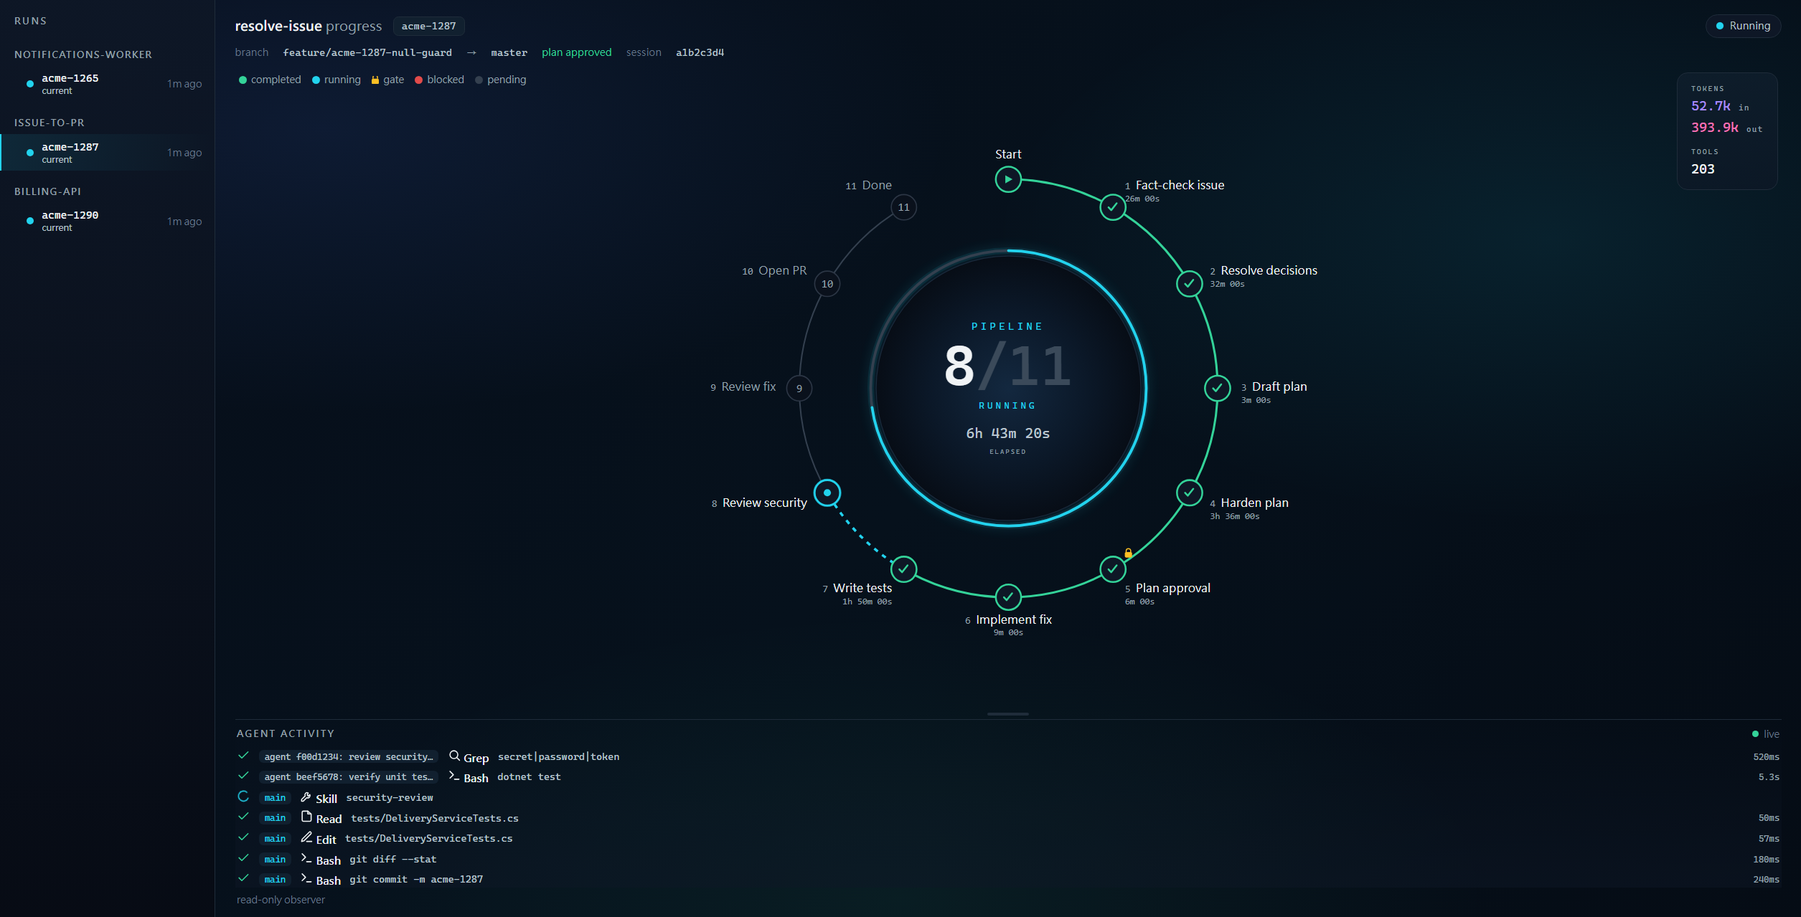
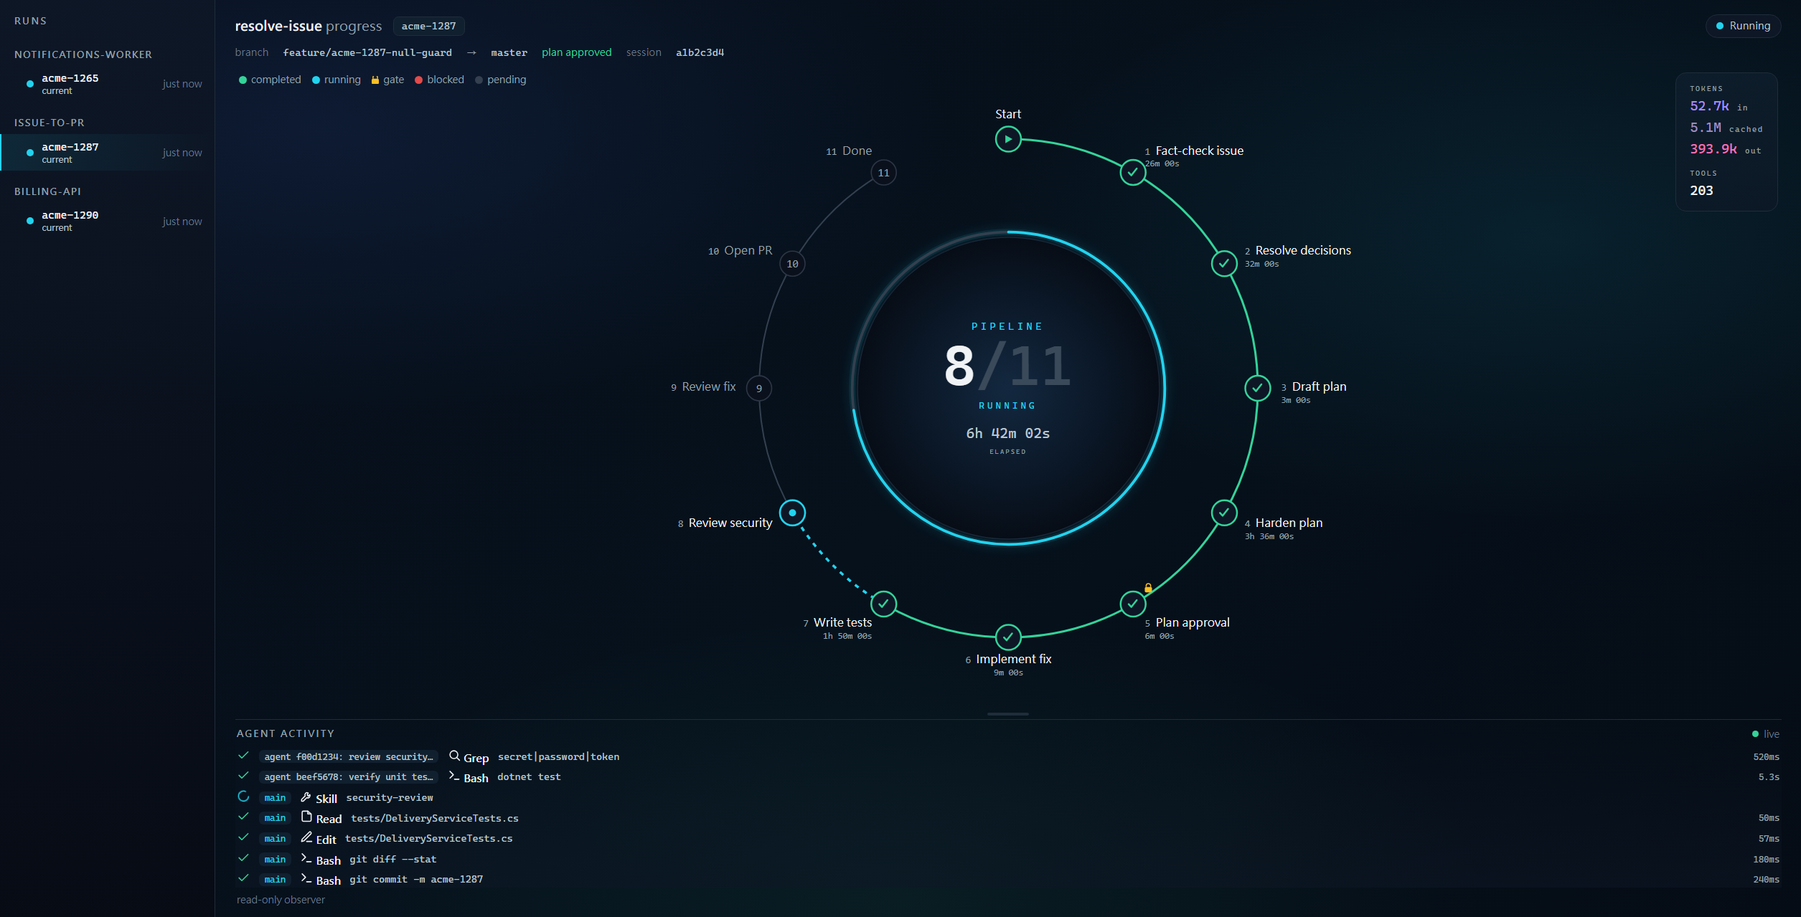
count each API response's tokens once

diff --git a/plugins/issue-to-pr-pipeline/skills/resolve-issue-dashboard/assets/index.html b/plugins/issue-to-pr-pipeline/skills/resolve-issue-dashboard/assets/index.html
@@ -21,6 +21,9 @@
     --blocked: #e24b4a;
     --amber: #fbbf24;
     --tok-in: #a78bfa;
+    /* cached sits on the input axis but weighs less, so it is a duller in-hue
+       rather than a colour of its own */
+    --tok-cached: #9d8fc4;
     --tok-out: #f472b6;
     --mono: ui-monospace, SFMono-Regular, "Cascadia Mono", Consolas, monospace;
     --sans: system-ui, -apple-system, "Segoe UI", Roboto, sans-serif;
@@ -167,6 +170,7 @@
   .statdock .sg .sk { font-size: 8px; letter-spacing: 0.2em; text-transform: uppercase; color: var(--text-tertiary); font-family: var(--mono); }
   .statdock .sg .sv { font-family: var(--mono); font-size: 15px; color: var(--text-primary); font-variant-numeric: tabular-nums; }
   .statdock .sg .sv .in { color: var(--tok-in); }
+  .statdock .sg .sv .cch { color: var(--tok-cached); }
   .statdock .sg .sv .out { color: var(--tok-out); }
   .statdock .sg .sv .tg { font-size: 9px; letter-spacing: 0.12em; color: var(--text-tertiary); }
 
@@ -573,9 +577,13 @@ function updateCore(m) {
   var dock = document.getElementById("statdock");
   if (dock) {
     var tin = (met.tokens && met.tokens.input) || 0, tout = (met.tokens && met.tokens.output) || 0;
+    // "in" is the cache-MISS delta the API reports, so cached is shown beside it
+    // rather than folded in - one blended input number would read as spend it isn't
+    var tcached = (met.tokens && met.tokens.cached) || 0;
     dock.innerHTML =
       "<div class='sg'><div class='sk'>Tokens</div>"
         + "<div class='sv'><span class='in'>" + fmtNum(tin) + "</span> <span class='tg'>in</span></div>"
+        + "<div class='sv'><span class='cch'>" + fmtNum(tcached) + "</span> <span class='tg'>cached</span></div>"
         + "<div class='sv'><span class='out'>" + fmtNum(tout) + "</span> <span class='tg'>out</span></div></div>"
       + "<div class='sg'><div class='sk'>Tools</div><div class='sv'>" + fmtNum(met.toolCalls) + "</div></div>";
   }
@@ -738,16 +746,18 @@ function selectRun(id) {
   fetch("/select?run=" + encodeURIComponent(id)).catch(function () {});
 }
 
-// global heads-up: 2+ runs parked on a test step share the host's Podman / SQL /
-// Azurite, so they can collide. Read-only - the dashboard only warns.
+// global heads-up: 2+ runs parked on a test step contend for whatever shared
+// infrastructure the repo's integration tests need, so they can collide.
+// Read-only - the dashboard only warns.
 function renderContention(c) {
   var el = document.getElementById("contention");
   if (c && c.count >= 2) {
     el.classList.add("show");
     document.getElementById("contention-text").innerHTML =
       "<b>" + c.count + " runs</b> are positioned at a test step. These steps run "
-      + "integration tests against the shared Podman, SQL, and Azurite, so running them together can "
-      + "conflict, race, or starve each other &mdash; stagger them rather than letting both test at once.";
+      + "integration tests, which usually need shared local infrastructure &mdash; containers, "
+      + "databases, emulators &mdash; so running them together can "
+      + "conflict, race, or starve each other. Stagger them rather than letting both test at once.";
     document.getElementById("contention-runs").innerHTML = (c.runs || []).map(function (r) {
       return "<span class='wr'>" + esc(r.repo) + " &middot; " + esc(r.ticket || "?") + " @ " + esc(r.step) + "</span>";
     }).join("");

diff --git a/plugins/issue-to-pr-pipeline/skills/resolve-issue-dashboard/scripts/parse_session.py b/plugins/issue-to-pr-pipeline/skills/resolve-issue-dashboard/scripts/parse_session.py
@@ -72,8 +72,8 @@ STEP_IDS = [s["id"] for s in STEPS]
 GATE_STEPS = {s["id"] for s in STEPS if s["gate"]}
 GATE_LABELS = {s["id"]: s["label"] for s in STEPS if s["gate"]}
 
-# steps that execute integration tests against the shared host
-# container stack (Podman + SQL + Azurite); two runs here at once contend for it
+# steps that execute integration tests, which typically run against shared local
+# infrastructure (containers, databases, emulators) only one run can hold at a time
 TEST_STEPS = {s["id"] for s in STEPS if s.get("runsTests")}
 
 STATE_FIELDS = [
@@ -354,6 +354,23 @@ class Collector:
         self._labels = {}
         self.tokens_in = 0
         self.tokens_out = 0
+        # cache_read + cache_creation input tokens, kept SEPARATE from tokens_in
+        # rather than folded into it. once prompt caching is on, input_tokens is
+        # only the cache-miss delta, so reporting it alone understates what was
+        # read; but adding the cache figures into one "in" number would overstate
+        # spend, because a cached read is billed at a fraction of a fresh one.
+        # three figures the API actually reported beat one blended guess
+        self.tokens_cached = 0
+        # message ids whose usage has already been counted, keyed (file, id).
+        # one API response is written as SEVERAL records - one per content block -
+        # and every one of them repeats the same message.usage, so accumulating per
+        # record multiplies each total by however many blocks that response held.
+        # that count differs per response, so no single correction ratio exists to
+        # apply afterwards: the repeats have to be dropped as they are read. ids are
+        # NOT unique across files, so the pair is the key, never the id alone. this
+        # also makes the re-read after a truncated / rotated file idempotent, which
+        # the running totals were not
+        self._seen_usage = set()
         # per-record output-token samples (ts + output_tokens), retained so
         # build_model can bucket them into per-step windows. only records that
         # actually produced output are kept; summing per window is
@@ -446,9 +463,22 @@ class Collector:
         for raw in complete.split(b"\n"):
             line = raw.decode("utf-8", "replace").strip()
             if line:
-                self._parse_line(line, agent)
+                self._parse_line(line, agent, path)
 
-    def _parse_line(self, line, agent):
+    def _count_usage_once(self, message_id, path):
+        """True the first time this API response's usage is seen, False for the
+        sibling records that repeat it. A record with no message id cannot be
+        deduplicated, so it is counted: over-counting an unidentifiable record
+        is the lesser error against silently dropping a real one."""
+        if not message_id:
+            return True
+        key = (path, message_id)
+        if key in self._seen_usage:
+            return False
+        self._seen_usage.add(key)
+        return True
+
+    def _parse_line(self, line, agent, path):
         try:
             o = json.loads(line)
         except ValueError:
@@ -477,9 +507,15 @@ class Collector:
         elif parsed_ts and (self._agent_last_ts is None
                             or parsed_ts > self._agent_last_ts):
             self._agent_last_ts = parsed_ts
+        # the dedupe gate has to wrap the per-step samples too, not just the
+        # running totals - a repeated record would otherwise re-inflate whichever
+        # step window it falls in. the content loop below stays OUTSIDE it, because
+        # tool_use blocks are written once each and must all be paired
         usage = msg.get("usage")
-        if usage:
+        if usage and self._count_usage_once(msg.get("id"), path):
             self.tokens_in += usage.get("input_tokens", 0) or 0
+            self.tokens_cached += ((usage.get("cache_read_input_tokens", 0) or 0)
+                                   + (usage.get("cache_creation_input_tokens", 0) or 0))
             out_tok = usage.get("output_tokens", 0) or 0
             self.tokens_out += out_tok
             # keep a per-step-bucketable sample; only assistant turns carry a
@@ -714,7 +750,7 @@ def list_status(next_step):
     return "active"
 
 
-def build_model(state, events, tokens_in, tokens_out, session_meta, ended_ms=None, main_active=False, timings=None, main_seen=False, token_records=None):
+def build_model(state, events, tokens_in, tokens_out, session_meta, ended_ms=None, main_active=False, timings=None, main_seen=False, token_records=None, tokens_cached=0):
     """Assemble the read-only progress model from the cursor plus the parsed
     activity. Pure: no I/O, no clock reads. `ended_ms` is the run's last-progress
     time (state.md mtime) supplied by the caller; defaults to None so the dry-run
@@ -868,7 +904,10 @@ def build_model(state, events, tokens_in, tokens_out, session_meta, ended_ms=Non
             "startedMs": started_ms,
             "endedMs": ended_ms,
             "live": overall in ("running", "paused", "blocked"),
-            "tokens": {"input": tokens_in, "output": tokens_out},
+            # input is the cache-MISS delta only, cached is cache_read plus
+            # cache_creation. kept apart so neither figure has to stand in for the
+            # other - see the Collector's tokens_cached for why blending misleads
+            "tokens": {"input": tokens_in, "cached": tokens_cached, "output": tokens_out},
         },
         "session": session_meta,
     }
@@ -892,7 +931,7 @@ def collect_model(cwd, ticket):
         "projectDir": project_dir,
         "cwd": cwd,
     }
-    events, tokens_in, tokens_out = [], 0, 0
+    events, tokens_in, tokens_out, tokens_cached = [], 0, 0, 0
     main_active = False
     main_seen = False
     token_records = []
@@ -901,11 +940,12 @@ def collect_model(cwd, ticket):
         collector.refresh()
         events = collector.events()
         tokens_in, tokens_out = collector.tokens_in, collector.tokens_out
+        tokens_cached = collector.tokens_cached
         main_active = collector.main_active()
         main_seen = collector.main_seen()
         token_records = collector.token_records()
 
-    return build_model(state, events, tokens_in, tokens_out, session_meta, ended_ms, main_active, timings, main_seen, token_records)
+    return build_model(state, events, tokens_in, tokens_out, session_meta, ended_ms, main_active, timings, main_seen, token_records, tokens_cached)
 
 
 def _pretty_stamp(s):
@@ -1020,9 +1060,9 @@ def list_runs(launch_cwd=None):
 def contention(runs):
     """Cross-run heads-up derived purely from the run list (no extra I/O):
     which discovered runs are parked on a test-executing step. Those steps run
-    integration tests against the shared host container stack
-    (Podman + SQL + Azurite), so two or more on such a step can conflict, race,
-    or starve each other. The status is the coarse next-step value, so a run
+    integration tests, which typically need shared local infrastructure
+    (containers, databases, emulators), so two or more on such a step can
+    conflict, race, or starve each other. The status is the coarse next-step value, so a run
     parked at the step counts even if its session is momentarily idle - this is
     a 'positioned to collide' reminder, not a claim that tests run right now.
     Read-only: it only reports; staggering is the human's call in the terminal."""

diff --git a/plugins/issue-to-pr-pipeline/skills/resolve-issue-dashboard/tests/selfcheck.py b/plugins/issue-to-pr-pipeline/skills/resolve-issue-dashboard/tests/selfcheck.py
@@ -392,6 +392,73 @@ def test_step_activity():
     check("build_model activity attached", fc["activity"]["tokensOut"], 100)
 
 
+# ----- token accounting: one API response counted once ------------------------
+
+def _usage(mid, inp=0, out=0, cread=0, ccreate=0, ts="2026-07-13T00:00:00Z", block="text"):
+    """An assistant record carrying usage. Claude Code writes one record PER
+    CONTENT BLOCK and repeats the same message.usage on every one, so several of
+    these sharing a message id is the normal shape, not a malformed transcript."""
+    msg = {"stop_reason": "tool_use", "content": [{"type": block}],
+           "usage": {"input_tokens": inp, "output_tokens": out,
+                     "cache_read_input_tokens": cread,
+                     "cache_creation_input_tokens": ccreate}}
+    if mid is not None:
+        msg["id"] = mid
+    return {"type": "assistant", "timestamp": ts, "message": msg}
+
+
+def test_token_totals():
+    # the defect this pins: three records of ONE response, each repeating its
+    # usage, so a per-record sum counts it three times. remove the dedupe and
+    # every check in this block goes red
+    c = _collector([_usage("msg_a", inp=100, out=40, cread=900, ccreate=10)] * 3)
+    check("repeated usage counted once (in)", c.tokens_in, 100)
+    check("repeated usage counted once (out)", c.tokens_out, 40)
+    check("repeated usage counted once (cached)", c.tokens_cached, 910)
+    # the per-step samples ride the same gate, or a step window re-inflates
+    check("per-step sample deduped", len(c.token_records()), 1)
+
+    # distinct responses still sum
+    c2 = _collector([_usage("msg_a", inp=10, out=1, cread=5),
+                     _usage("msg_b", inp=20, out=2, cread=7),
+                     _usage("msg_b", inp=20, out=2, cread=7)])
+    check("distinct ids sum", (c2.tokens_in, c2.tokens_out, c2.tokens_cached), (30, 3, 12))
+
+    # a record with no message id cannot be deduplicated, so it is counted -
+    # over-counting an unidentifiable record beats dropping a real one
+    c3 = _collector([_usage(None, inp=5, out=5), _usage(None, inp=5, out=5)])
+    check("id-less records both counted", (c3.tokens_in, c3.tokens_out), (10, 10))
+
+    # ids are NOT unique across files, so the key is the pair: the same id in a
+    # subagent transcript is a different response and must still be counted
+    c4 = _collector_with_agent([_usage("msg_dup", inp=100, out=10)],
+                               [_usage("msg_dup", inp=100, out=10)])
+    check("same id in another file still counts", (c4.tokens_in, c4.tokens_out), (200, 20))
+
+    # cache_creation and cache_read both land in cached; absent fields are 0
+    c5 = _collector([{"type": "assistant", "timestamp": "2026-07-13T00:00:00Z",
+                      "message": {"id": "m", "stop_reason": "end_turn",
+                                  "content": [{"type": "text"}],
+                                  "usage": {"input_tokens": 7}}}])
+    check("missing cache fields default 0", (c5.tokens_in, c5.tokens_cached), (7, 0))
+
+    # tool_use pairing must survive the gate: the blocks are written once each, so
+    # a duplicate-usage record still contributes its own tool event
+    dup_tool = [_usage("msg_t", out=5, block="text"),
+                _usage("msg_t", out=5, block="text")]
+    dup_tool[1]["message"]["content"] = [{"type": "tool_use", "id": "t1", "name": "Bash",
+                                          "input": {"command": "ls"}}]
+    c6 = _collector(dup_tool)
+    check("duplicate-usage record still yields its tool event", len(c6.events()), 1)
+    check("tool event's usage not double counted", c6.tokens_out, 5)
+
+    # build_model surfaces cached alongside input/output
+    m = ps.build_model({"next-step": "a-draft-plan", "ticket": "acme-1"}, [], 11, 22,
+                       {"cwd": "."}, None, False, None, False, None, 33)
+    check("model exposes cached", m["metrics"]["tokens"],
+          {"input": 11, "cached": 33, "output": 22})
+
+
 # ----- find_live_session: ticket-aware session selection (R3) -----------------
 
 def test_session_selection():
@@ -420,7 +487,7 @@ def test_session_selection():
 _TESTS = (test_status_rules, test_main_active, test_background_agent_is_not_a_yield,
           test_run_id_roundtrip, test_parse_state, test_encoding_tolerance,
           test_contention, test_timings, test_waiting_detection, test_step_activity,
-          test_session_selection)
+          test_token_totals, test_session_selection)
 
 
 def _run_all():

diff --git a/plugins/issue-to-pr-pipeline/skills/resolve-issue-dashboard/scripts/serve_progress.py b/plugins/issue-to-pr-pipeline/skills/resolve-issue-dashboard/scripts/serve_progress.py
@@ -160,7 +160,7 @@ class RunManager:
                 # run's last-progress time; stable across a next-day relaunch
                 ended_ms = ps._mtime_ms(state_path)
                 timings = ps.parse_timings(os.path.join(resolve_dir, "timings.md"))
-            events, tin, tout = [], 0, 0
+            events, tin, tout, tcached = [], 0, 0, 0
             main_active = False
             main_seen = False
             token_records = []
@@ -168,6 +168,7 @@ class RunManager:
                 self.collector.refresh()
                 events = self.collector.events()
                 tin, tout = self.collector.tokens_in, self.collector.tokens_out
+                tcached = self.collector.tokens_cached
                 main_active = self.collector.main_active()
                 main_seen = self.collector.main_seen()
                 token_records = self.collector.token_records()
@@ -177,7 +178,7 @@ class RunManager:
                 "cwd": sel_cwd,
                 "ticketDetected": ticket,
             }
-            model = ps.build_model(state, events, tin, tout, meta, ended_ms, main_active, timings, main_seen, token_records)
+            model = ps.build_model(state, events, tin, tout, meta, ended_ms, main_active, timings, main_seen, token_records, tcached)
             # include run_key so the selected-id matches the ARCHIVED run's
             # sidebar entry (run_id keys on it) instead of the live run's
             selected_id = ps.run_id(sel_cwd, ticket, self.sel_run_key)

diff --git a/plugins/issue-to-pr-pipeline/skills/resolve-issue-dashboard/SKILL.md b/plugins/issue-to-pr-pipeline/skills/resolve-issue-dashboard/SKILL.md
@@ -68,9 +68,9 @@ To stop it: the dashboard **stops itself after about 30 minutes with no connecte
 - **Header + status pill** — the selected run's ticket, work and base branch, and a coloured status: running, paused (at a gate), blocked (needs you to unblock it), or done.
 - **Pipeline** — the registered steps (`a-fact-check` … `done`) as nodes; status is derived from `state.md`'s `next-step` (earlier steps completed, the current one running or paused, later ones pending). Each completed node also shows its wall-clock beneath the label, and a step re-entered by a gate revise shows a `×N` count — both read from the run's append-only `timings.md`, so you can see which step ate the run's time. A completed node's tooltip additionally shows its **output-token total** — a compute-vs-waiting signal: a slow step with few output tokens was mostly waiting (a gate, a pause), not computing.
 - **Agent activity** — the live tool-call stream from the session and its subagents, so you can see what each component's writer/verifier is doing (tool, target, status, duration).
-- **Stat cards** — pipeline step `N` of the registry's total, elapsed (wall-clock) duration, tool-call count, and tokens in/out.
+- **Stat cards** — pipeline step `N` of the registry's total, elapsed (wall-clock) duration, tool-call count, and tokens in / cached / out. The three token figures are the API's own, each response counted **once**: `in` is the cache-**miss** input only, `cached` is cache reads plus cache writes, `out` is model output. Two things follow. One response is written to the transcript as several records that all repeat the same `usage`, so any per-record sum inflates every figure — the dashboard de-duplicates on the message id, which is why these numbers can read lower than a hand count of the same file. And the three are deliberately not blended: a cached read costs a fraction of a fresh one, so one combined "input" number would read as spend it is not. Treat all three as **volume, not price**.
 - **Gate banner** — when the run is paused at the plan-approval gate, an amber banner reminds you to respond in the Claude Code terminal.
-- **Test-contention banner** — a global warning appears when two or more runs (any repo) are positioned at a test-executing step (the ones that run integration tests). Those steps share one host container stack — Podman, SQL, and Azurite — so running them at once can conflict, race, or starve. The banner names the colliding runs so you can stagger them; it only warns, since the dashboard never controls a run.
+- **Test-contention banner** — a global warning appears when two or more runs (any repo) are positioned at a test-executing step (the ones that run integration tests). Those steps usually need shared local infrastructure — containers, databases, emulators — so running them at once can conflict, race, or starve. The banner names the colliding runs so you can stagger them; it only warns, since the dashboard never controls a run.
 
 Updates arrive over Server-Sent Events at message granularity (Claude Code flushes the transcript per message), so the view is near-real-time rather than token-by-token.
 

diff --git a/plugins/issue-to-pr-pipeline/skills/resolve-issue-dashboard/README.md b/plugins/issue-to-pr-pipeline/skills/resolve-issue-dashboard/README.md
@@ -34,9 +34,9 @@ flowchart LR
 - **Header + status pill** — the selected run's ticket, work and base branch, PR link once present, and a coloured run status (running / paused / blocked / done).
 - **Pipeline** — the steps (loaded from the shared `resources/resolve-issue-steps.json` registry, e.g. `a-fact-check` … `done`) as nodes; status comes from `state.md`'s `next-step` — earlier completed, current running or paused, later pending — with the running node pulsing and completed nodes ticked. Each completed node also shows its wall-clock, and a step re-entered by a gate revise shows a `×N` count, read from the run's append-only `timings.md`. A completed node's tooltip also shows its output-token total — a compute-vs-waiting signal (a slow step with few output tokens was mostly waiting, not computing).
 - **Agent activity** — the merged tool-call stream from the main session and its subagents (each component's writer / verifier), showing tool, target, status, and duration.
-- **Stat cards** — pipeline step `N` of the registry's total, elapsed (wall-clock) duration, tool-call count, and tokens in/out.
+- **Stat cards** — pipeline step `N` of the registry's total, elapsed (wall-clock) duration, tool-call count, and tokens in / cached / out. The three token figures are what the API reported, counted once per response: `in` is the cache-**miss** input only, `cached` is the cache reads plus cache writes, `out` is the model's output. They are kept apart rather than blended into one input number, because a cached read costs a fraction of a fresh one — so read them as volume, not as a price.
 - **Attention cue** — a breathing full-frame highlight plus a core-readout takeover pointing back to the terminal: amber when the run is paused at the plan-approval gate, red when it is blocked awaiting a disposition. It fires only once the session has actually parked at the gate and yielded control — not the moment the step is entered, since the run can still be working toward it (e.g. drafting the PR before the open-PR confirmation), which the dashboard reads from the tailed session's liveness.
-- **Test-contention banner** — a global warning when two or more runs (across all repos) sit on a test-executing step at once; those steps share the host's Podman / SQL / Azurite, so running them together can conflict. It names the colliding runs to stagger and is read-only, like the rest of the dashboard. Which steps count is marked with `runsTests` in the shared registry, so it stays in sync with the pipeline.
+- **Test-contention banner** — a global warning when two or more runs (across all repos) sit on a test-executing step at once; those steps usually need shared local infrastructure (containers, databases, emulators), so running them together can conflict. It names the colliding runs to stagger and is read-only, like the rest of the dashboard. Which steps count is marked with `runsTests` in the shared registry, so it stays in sync with the pipeline.
 
 ## Relationship to `resolve-issue`
 
